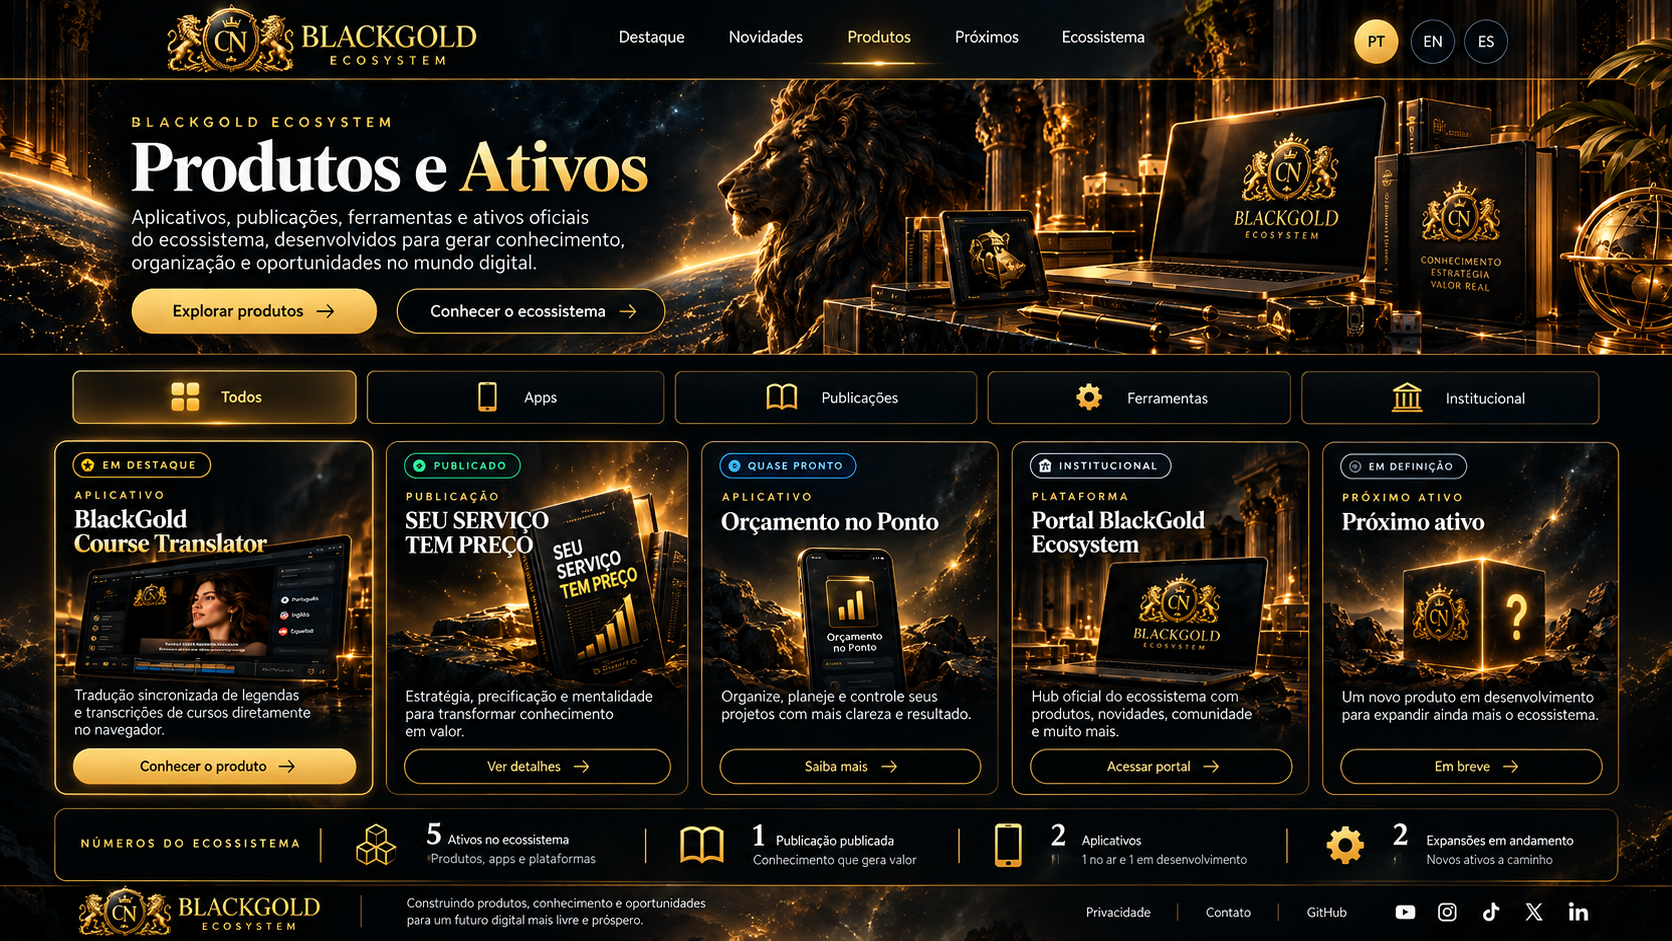
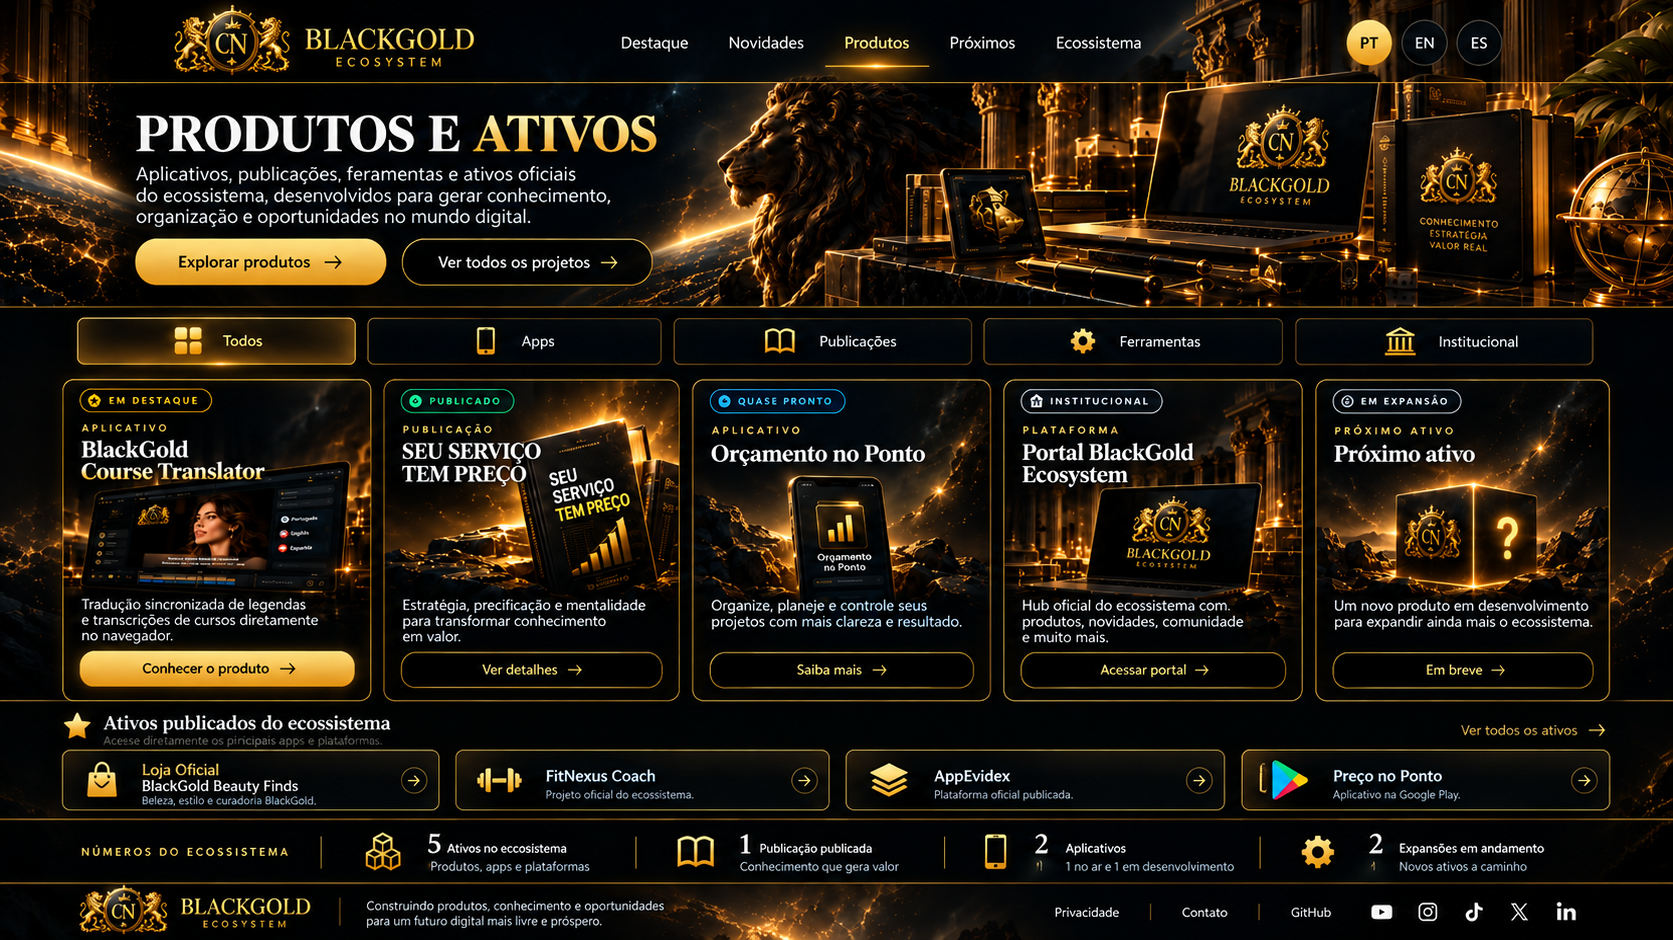
feat: apply approved Products and Assets visual V2

diff --git a/docs/products.html b/docs/products.html
@@ -15,10 +15,58 @@
 <a href="next.html">Próximos</a>
 <a href="ecosystem.html">Ecossistema</a>
 </nav>
+
 <main class="visual-shell" aria-label="Produtos e Ativos — BlackGold">
-<img src="assets/approved/page-produtos.png" width="1672" height="941" alt="Produtos e Ativos — BlackGold — visual aprovado BlackGold Ecosystem">
-<a class="hotspot" data-action="home" aria-label="Destaque" style="left:35.4%;top:0.0%;width:7.5%;height:7.7%"></a><a class="hotspot" data-action="news" aria-label="Novidades" style="left:43.0%;top:0.0%;width:7.2%;height:7.7%"></a><a class="hotspot" data-action="products" aria-label="Produtos" style="left:50.2%;top:0.0%;width:7.0%;height:7.7%"></a><a class="hotspot" data-action="next" aria-label="Próximos" style="left:57.2%;top:0.0%;width:6.9%;height:7.7%"></a><a class="hotspot" data-action="ecosystem" aria-label="Ecossistema" style="left:64.0%;top:0.0%;width:8.3%;height:7.7%"></a><a class="hotspot" data-action="lang-pt" aria-label="Português" style="left:79.2%;top:0.5%;width:3.6%;height:6.2%"></a><a class="hotspot" data-action="lang-en" aria-label="English" style="left:83.0%;top:0.5%;width:3.5%;height:6.2%"></a><a class="hotspot" data-action="lang-es" aria-label="Español" style="left:86.7%;top:0.5%;width:3.5%;height:6.2%"></a><a class="hotspot" data-action="privacy" aria-label="Privacidade" style="left:66.0%;top:94.0%;width:5.8%;height:5.4%"></a><a class="hotspot" data-action="contact" aria-label="Contato" style="left:72.4%;top:94.0%;width:5.0%;height:5.4%"></a><a class="hotspot" data-action="github" aria-label="GitHub" style="left:78.3%;top:94.0%;width:4.8%;height:5.4%"></a><a class="hotspot" data-action="youtube" aria-label="YouTube" style="left:84.1%;top:94.0%;width:2.4%;height:5.4%"></a><a class="hotspot" data-action="instagram" aria-label="Instagram" style="left:86.3%;top:94.0%;width:2.4%;height:5.4%"></a><a class="hotspot" data-action="tiktok" aria-label="TikTok" style="left:88.6%;top:94.0%;width:2.4%;height:5.4%"></a><a class="hotspot" data-action="x" aria-label="X" style="left:91.1%;top:94.0%;width:2.3%;height:5.4%"></a><a class="hotspot" data-action="linkedin" aria-label="LinkedIn" style="left:93.4%;top:94.0%;width:3.2%;height:5.4%"></a><a class="hotspot" data-action="course" aria-label="BlackGold Course Translator" style="left:3.0%;top:46.5%;width:19.1%;height:37.1%"></a><a class="hotspot" data-action="book" aria-label="SEU SERVIÇO TEM PREÇO" style="left:22.7%;top:46.5%;width:19.7%;height:37.1%"></a><a class="hotspot" data-action="budget" aria-label="Orçamento no Ponto" style="left:43.0%;top:46.5%;width:19.7%;height:37.1%"></a><a class="hotspot" data-action="home" aria-label="Portal BlackGold Ecosystem" style="left:63.2%;top:46.5%;width:19.0%;height:37.1%"></a><a class="hotspot" data-action="next" aria-label="Próximo ativo" style="left:82.8%;top:46.5%;width:14.8%;height:37.1%"></a>
+<img src="assets/approved/page-produtos.png" width="1673" height="940" alt="Produtos e Ativos — BlackGold — visual aprovado V2">
+
+<!-- Header -->
+<a class="hotspot" data-action="home" aria-label="Destaque" style="left:35.8%;top:0.0%;width:7.0%;height:8.3%"></a>
+<a class="hotspot" data-action="news" aria-label="Novidades" style="left:43.0%;top:0.0%;width:7.1%;height:8.3%"></a>
+<a class="hotspot" data-action="products" aria-label="Produtos" style="left:50.2%;top:0.0%;width:6.9%;height:8.3%"></a>
+<a class="hotspot" data-action="next" aria-label="Próximos" style="left:57.1%;top:0.0%;width:7.0%;height:8.3%"></a>
+<a class="hotspot" data-action="ecosystem" aria-label="Ecossistema" style="left:64.2%;top:0.0%;width:8.2%;height:8.3%"></a>
+
+<a class="hotspot" data-action="lang-pt" aria-label="Português" style="left:79.0%;top:0.4%;width:3.7%;height:7.0%"></a>
+<a class="hotspot" data-action="lang-en" aria-label="English" style="left:82.9%;top:0.4%;width:3.7%;height:7.0%"></a>
+<a class="hotspot" data-action="lang-es" aria-label="Español" style="left:86.8%;top:0.4%;width:3.7%;height:7.0%"></a>
+
+<!-- Hero -->
+<a class="hotspot" data-action="panel-all" aria-label="Explorar produtos" style="left:7.6%;top:24.8%;width:15.4%;height:5.8%"></a>
+<a class="hotspot" data-action="ecosystem" aria-label="Ver todos os projetos" style="left:23.9%;top:24.8%;width:15.5%;height:5.8%"></a>
+
+<!-- Filters -->
+<a class="hotspot" data-action="panel-all" aria-label="Todos" style="left:4.4%;top:33.1%;width:16.9%;height:5.5%"></a>
+<a class="hotspot" data-action="panel-apps" aria-label="Apps" style="left:21.9%;top:33.1%;width:17.6%;height:5.5%"></a>
+<a class="hotspot" data-action="panel-publications" aria-label="Publicações" style="left:40.0%;top:33.1%;width:18.2%;height:5.5%"></a>
+<a class="hotspot" data-action="panel-tools" aria-label="Ferramentas" style="left:58.7%;top:33.1%;width:17.8%;height:5.5%"></a>
+<a class="hotspot" data-action="ecosystem" aria-label="Institucional" style="left:77.1%;top:33.1%;width:18.4%;height:5.5%"></a>
+
+<!-- Main cards -->
+<a class="hotspot" data-action="course" aria-label="BlackGold Course Translator" style="left:3.5%;top:39.8%;width:18.7%;height:33.9%"></a>
+<a class="hotspot" data-action="book" aria-label="SEU SERVIÇO TEM PREÇO" style="left:22.8%;top:39.8%;width:18.0%;height:33.9%"></a>
+<a class="hotspot" data-action="budget" aria-label="Orçamento no Ponto" style="left:41.4%;top:39.8%;width:18.1%;height:33.9%"></a>
+<a class="hotspot" data-action="portal" aria-label="Portal BlackGold Ecosystem" style="left:60.2%;top:39.8%;width:17.8%;height:33.9%"></a>
+<a class="hotspot" data-action="next" aria-label="Próximo ativo" style="left:78.6%;top:39.8%;width:17.6%;height:33.9%"></a>
+
+<!-- Visible published assets -->
+<a class="hotspot" data-action="panel-all" aria-label="Ver todos os ativos" style="left:85.6%;top:74.0%;width:10.6%;height:3.8%"></a>
+
+<a class="hotspot" data-action="store" aria-label="Loja Oficial — BlackGold Beauty Finds" style="left:3.6%;top:78.5%;width:22.7%;height:7.2%"></a>
+<a class="hotspot" data-action="fitnexus" aria-label="FitNexus Coach" style="left:27.0%;top:78.5%;width:22.5%;height:7.2%"></a>
+<a class="hotspot" data-action="appevidex" aria-label="AppEvidex" style="left:50.3%;top:78.5%;width:22.6%;height:7.2%"></a>
+<a class="hotspot" data-action="price_no_ponto" aria-label="Preço no Ponto — Play Store" style="left:73.7%;top:78.5%;width:22.6%;height:7.2%"></a>
+
+<!-- Footer -->
+<a class="hotspot" data-action="privacy" aria-label="Privacidade" style="left:62.2%;top:93.0%;width:6.2%;height:6.2%"></a>
+<a class="hotspot" data-action="contact" aria-label="Contato" style="left:69.1%;top:93.0%;width:5.3%;height:6.2%"></a>
+<a class="hotspot" data-action="github" aria-label="GitHub" style="left:75.4%;top:93.0%;width:5.3%;height:6.2%"></a>
+<a class="hotspot" data-action="youtube" aria-label="YouTube" style="left:81.7%;top:93.0%;width:2.7%;height:6.2%"></a>
+<a class="hotspot" data-action="instagram" aria-label="Instagram" style="left:84.7%;top:93.0%;width:2.7%;height:6.2%"></a>
+<a class="hotspot" data-action="tiktok" aria-label="TikTok" style="left:87.6%;top:93.0%;width:2.7%;height:6.2%"></a>
+<a class="hotspot" data-action="x" aria-label="X" style="left:90.6%;top:93.0%;width:2.7%;height:6.2%"></a>
+<a class="hotspot" data-action="linkedin" aria-label="LinkedIn" style="left:93.6%;top:93.0%;width:2.7%;height:6.2%"></a>
 </main>
+
 <script src="assets/site.js"></script>
 </body>
 </html>

diff --git a/docs/assets/site.js b/docs/assets/site.js
@@ -230,21 +230,12 @@
   const page = (location.pathname.split("/").pop() || "index.html").toLowerCase();
 
   // Quick-access row visible in the approved art.
-  if (["index.html","products.html","next.html"].includes(page)) {
+  if (["index.html","next.html"].includes(page)) {
     addHotspot("panel-apps",         4.1, 86.0, 17.6, 6.8, "Apps");
     addHotspot("panel-publications",22.2, 86.0, 18.3, 6.8, "Publicações");
     addHotspot("panel-tools",       41.1, 86.0, 17.8, 6.8, "Ferramentas");
     addHotspot("panel-community",   59.5, 86.0, 17.2, 6.8, "Comunidade");
     addHotspot("panel-channels",    77.3, 86.0, 18.0, 6.8, "Canais oficiais");
-  }
-
-  // Product category filters visible in Produtos e Ativos.
-  if (page === "products.html") {
-    addHotspot("panel-all",          4.3, 39.0, 17.0, 5.6, "Todos os ativos");
-    addHotspot("panel-apps",        21.8, 39.0, 17.5, 5.6, "Apps");
-    addHotspot("panel-publications",39.8, 39.0, 18.4, 5.6, "Publicações");
-    addHotspot("panel-tools",       58.7, 39.0, 17.9, 5.6, "Ferramentas");
-    addHotspot("panel-all",         77.1, 39.0, 18.5, 5.6, "Institucional");
   }
 
   // "Ver todos os projetos" on the Ecosystem page.
